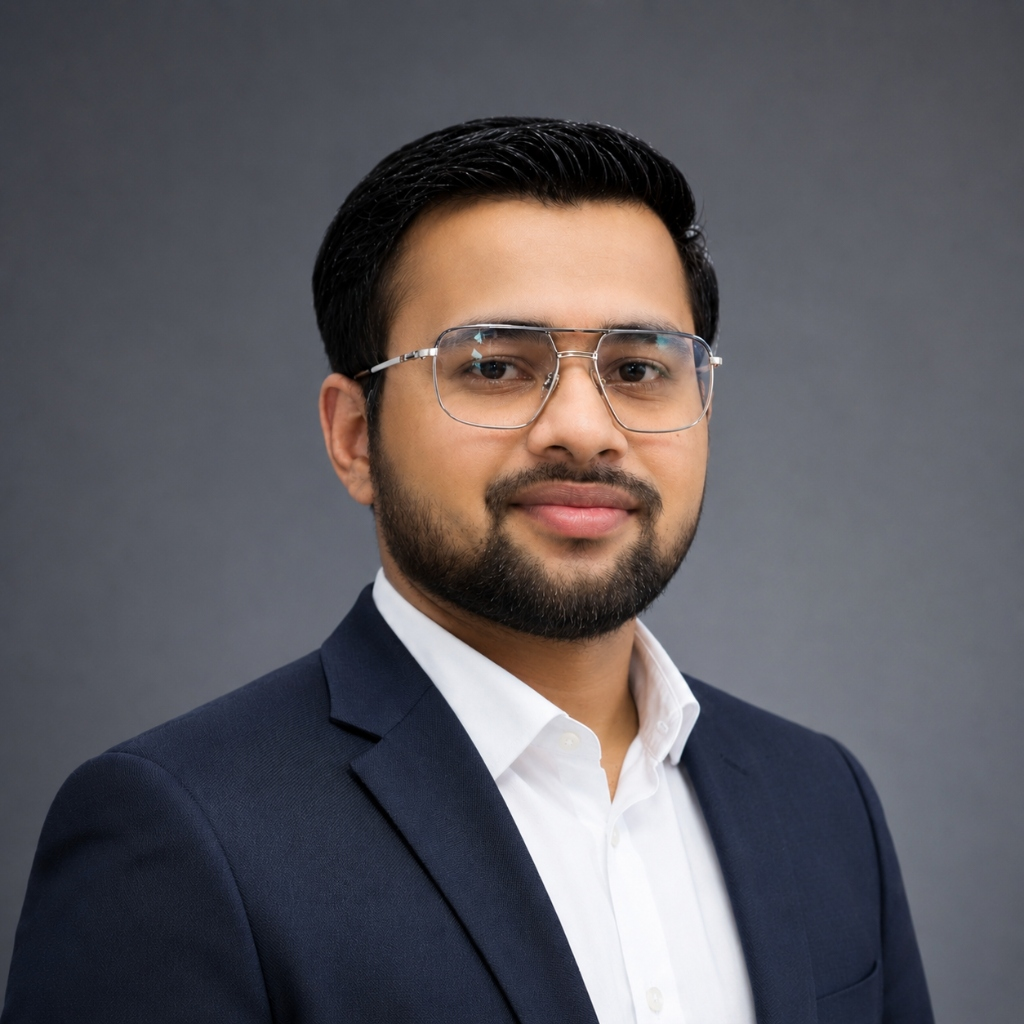
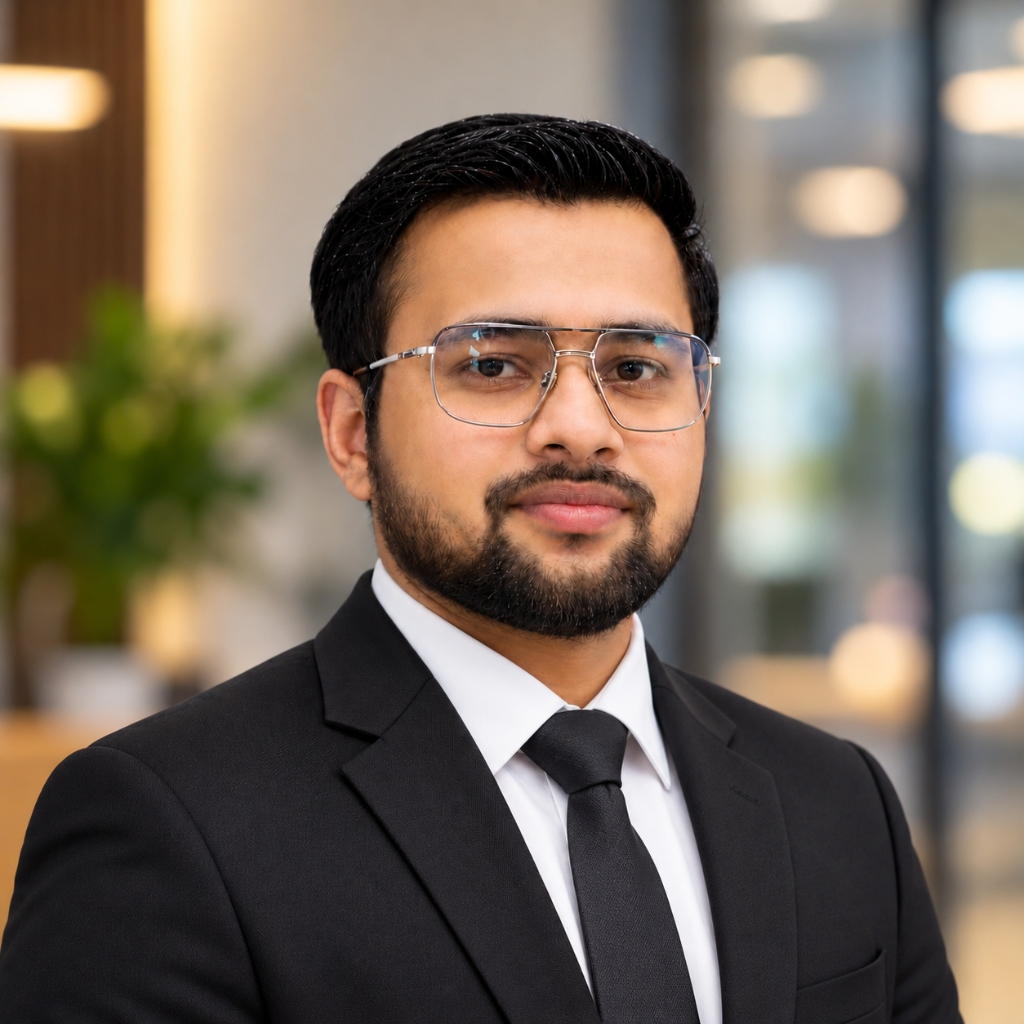
Update profile photo and enhance rectangular portrait frame

diff --git a/src/components/luxury/LuxuryHero.tsx b/src/components/luxury/LuxuryHero.tsx
@@ -5,16 +5,16 @@ import { ArrowRight, ArrowDown, Sparkles } from "lucide-react";
 export const LuxuryHero = () => {
   const containerRef = useRef<HTMLElement>(null);
   
-  // Interactive Palette Mode: "bw" (Black & White), "color" (Natural Color), "noir" (Cinematic Noir)
-  const [paletteMode, setPaletteMode] = useState<"bw" | "color" | "noir">("bw");
+  // Interactive Palette Mode: "color" (Natural Color), "bw" (Classic Black & White), "noir" (Cinematic Noir)
+  const [paletteMode, setPaletteMode] = useState<"color" | "bw" | "noir">("color");
 
   const cyclePalette = () => {
-    if (paletteMode === "bw") {
-      setPaletteMode("color");
-    } else if (paletteMode === "color") {
+    if (paletteMode === "color") {
+      setPaletteMode("bw");
+    } else if (paletteMode === "bw") {
       setPaletteMode("noir");
     } else {
-      setPaletteMode("bw");
+      setPaletteMode("color");
     }
   };
 
@@ -33,12 +33,12 @@ export const LuxuryHero = () => {
   const getFilterStyle = () => {
     switch (paletteMode) {
       case "color":
-        return "grayscale-0 contrast-[102%] brightness-[101%]";
+        return "grayscale-0 contrast-[100%] brightness-[100%]";
       case "noir":
-        return "grayscale contrast-[142%] brightness-[94%]";
+        return "grayscale contrast-[135%] brightness-[96%]";
       case "bw":
       default:
-        return "grayscale contrast-[112%] brightness-[101%]";
+        return "grayscale contrast-[110%] brightness-[100%]";
     }
   };
 
@@ -140,19 +140,19 @@ export const LuxuryHero = () => {
             </div>
           </motion.div>
 
-          {/* ── Right Column: Unique Architectural Luxury Frame with Interactive B&W / Color Switch ── */}
+          {/* ── Right Column: Clean, Elegant Rectangular Portrait Frame with Subtle Rounded Corners ── */}
           <motion.div
-            initial={{ opacity: 0, scale: 0.96, y: 20 }}
+            initial={{ opacity: 0, scale: 0.97, y: 20 }}
             animate={{ opacity: 1, scale: 1, y: 0 }}
             transition={{ duration: 1.1, delay: 0.15, ease: [0.25, 1, 0.5, 1] }}
             className="lg:col-span-5 flex flex-col items-center lg:items-end justify-center w-full"
           >
-            <div className="relative w-full max-w-[440px] sm:max-w-[480px] lg:max-w-[500px] xl:max-w-[520px]">
+            <div className="relative w-full max-w-[380px] sm:max-w-[420px] md:max-w-[440px] lg:max-w-[460px] xl:max-w-[480px]">
               
-              {/* Floating Architectural Offset Accent Border */}
-              <div className="absolute -bottom-3 -right-3 sm:-bottom-4 sm:-right-4 w-full h-full border border-[#111111]/25 pointer-events-none transition-transform duration-500 group-hover:translate-x-1 group-hover:translate-y-1" />
+              {/* Subtle Architectural Offset Accent Outline with matching rounded corners */}
+              <div className="absolute -bottom-3 -right-3 sm:-bottom-4 sm:-right-4 w-full h-full rounded-xl border border-[#111111]/15 pointer-events-none transition-transform duration-500 group-hover:translate-x-1 group-hover:translate-y-1" />
 
-              {/* Main Luxury Frame Box (Clickable Interactive Canvas) */}
+              {/* Main Luxury Frame Box with slightly rounded corners */}
               <motion.div
                 whileTap={{ scale: 0.985 }}
                 onClick={cyclePalette}
@@ -164,15 +164,15 @@ export const LuxuryHero = () => {
                     cyclePalette();
                   }
                 }}
-                className="relative bg-[#FFFFFF] border border-[#111111] p-3 sm:p-4 shadow-xl cursor-pointer select-none group"
-                title="Click photo to toggle: Black & White · Natural Color · Cinematic Noir"
-                aria-label="Profile photo of Gaurav Ghandat. Click to switch palette modes: Black & White, Natural Color, and Noir."
+                className="relative bg-[#FFFFFF] rounded-xl border border-[#111111]/80 p-3 sm:p-4 shadow-xl hover:shadow-2xl transition-all duration-500 cursor-pointer select-none group"
+                title="Click photo to toggle: Natural Color · Classic B&W · Cinematic Noir"
+                aria-label="Profile photo of Gaurav Ghandat. Click to switch palette modes: Natural Color, Black & White, and Noir."
               >
                 {/* 4 Architectural Precision Corner Registration Notches */}
-                <span className="absolute -top-1 -left-1 w-3.5 h-3.5 border-t-2 border-l-2 border-[#111111] pointer-events-none" />
-                <span className="absolute -top-1 -right-1 w-3.5 h-3.5 border-t-2 border-r-2 border-[#111111] pointer-events-none" />
-                <span className="absolute -bottom-1 -left-1 w-3.5 h-3.5 border-b-2 border-l-2 border-[#111111] pointer-events-none" />
-                <span className="absolute -bottom-1 -right-1 w-3.5 h-3.5 border-b-2 border-r-2 border-[#111111] pointer-events-none" />
+                <span className="absolute -top-1 -left-1 w-3.5 h-3.5 border-t-2 border-l-2 border-[#111111] rounded-tl-sm pointer-events-none" />
+                <span className="absolute -top-1 -right-1 w-3.5 h-3.5 border-t-2 border-r-2 border-[#111111] rounded-tr-sm pointer-events-none" />
+                <span className="absolute -bottom-1 -left-1 w-3.5 h-3.5 border-b-2 border-l-2 border-[#111111] rounded-bl-sm pointer-events-none" />
+                <span className="absolute -bottom-1 -right-1 w-3.5 h-3.5 border-b-2 border-r-2 border-[#111111] rounded-br-sm pointer-events-none" />
 
                 {/* Top Inscription Header */}
                 <div className="pb-2.5 px-0.5 flex items-center justify-between text-[10px] font-mono tracking-[0.2em] uppercase text-[#666666] border-b border-[#E5E5E5] mb-2.5">
@@ -188,17 +188,17 @@ export const LuxuryHero = () => {
                   </div>
                 </div>
 
-                {/* Photo Viewport with Interactive Transition Filter */}
-                <div className="relative w-full aspect-square overflow-hidden bg-[#F8F8F7] border border-[#E5E5E5]/80">
+                {/* Photo Viewport: Clean, elegant rectangular portrait with slightly rounded corners */}
+                <div className="relative w-full aspect-[4/5] sm:aspect-square md:aspect-[4/5] rounded-lg overflow-hidden bg-[#F8F8F7] border border-[#E5E5E5]/90">
                   <img
                     src="/gaurav-original.jpg"
                     alt="Gaurav Ghandat — Cybersecurity Professional & SOC Analyst"
-                    className={`w-full h-full object-cover object-top transition-all duration-700 ease-out group-hover:scale-[1.02] ${getFilterStyle()}`}
+                    className={`w-full h-full object-cover object-[center_20%] transition-all duration-700 ease-out group-hover:scale-[1.025] ${getFilterStyle()}`}
                     loading="eager"
                   />
 
                   {/* Mode Change Pulse Overlay */}
-                  <div className="absolute top-3 right-3 px-2.5 py-1 bg-[#111111]/85 text-[#FFFFFF] backdrop-blur-md text-[9px] font-mono tracking-[0.2em] uppercase flex items-center gap-1.5 opacity-90 group-hover:opacity-100 transition-opacity">
+                  <div className="absolute top-3 right-3 px-2.5 py-1 bg-[#111111]/85 text-[#FFFFFF] rounded-md backdrop-blur-md text-[9px] font-mono tracking-[0.2em] uppercase flex items-center gap-1.5 opacity-90 group-hover:opacity-100 transition-opacity">
                     <span
                       className="w-1.5 h-1.5 rounded-full transition-colors duration-300"
                       style={{
@@ -212,7 +212,7 @@ export const LuxuryHero = () => {
                     />
                     <span>
                       {paletteMode === "color"
-                        ? "SPECTRUM COLOR"
+                        ? "NATURAL COLOR"
                         : paletteMode === "noir"
                         ? "CINEMATIC NOIR"
                         : "CLASSIC B&W"}
